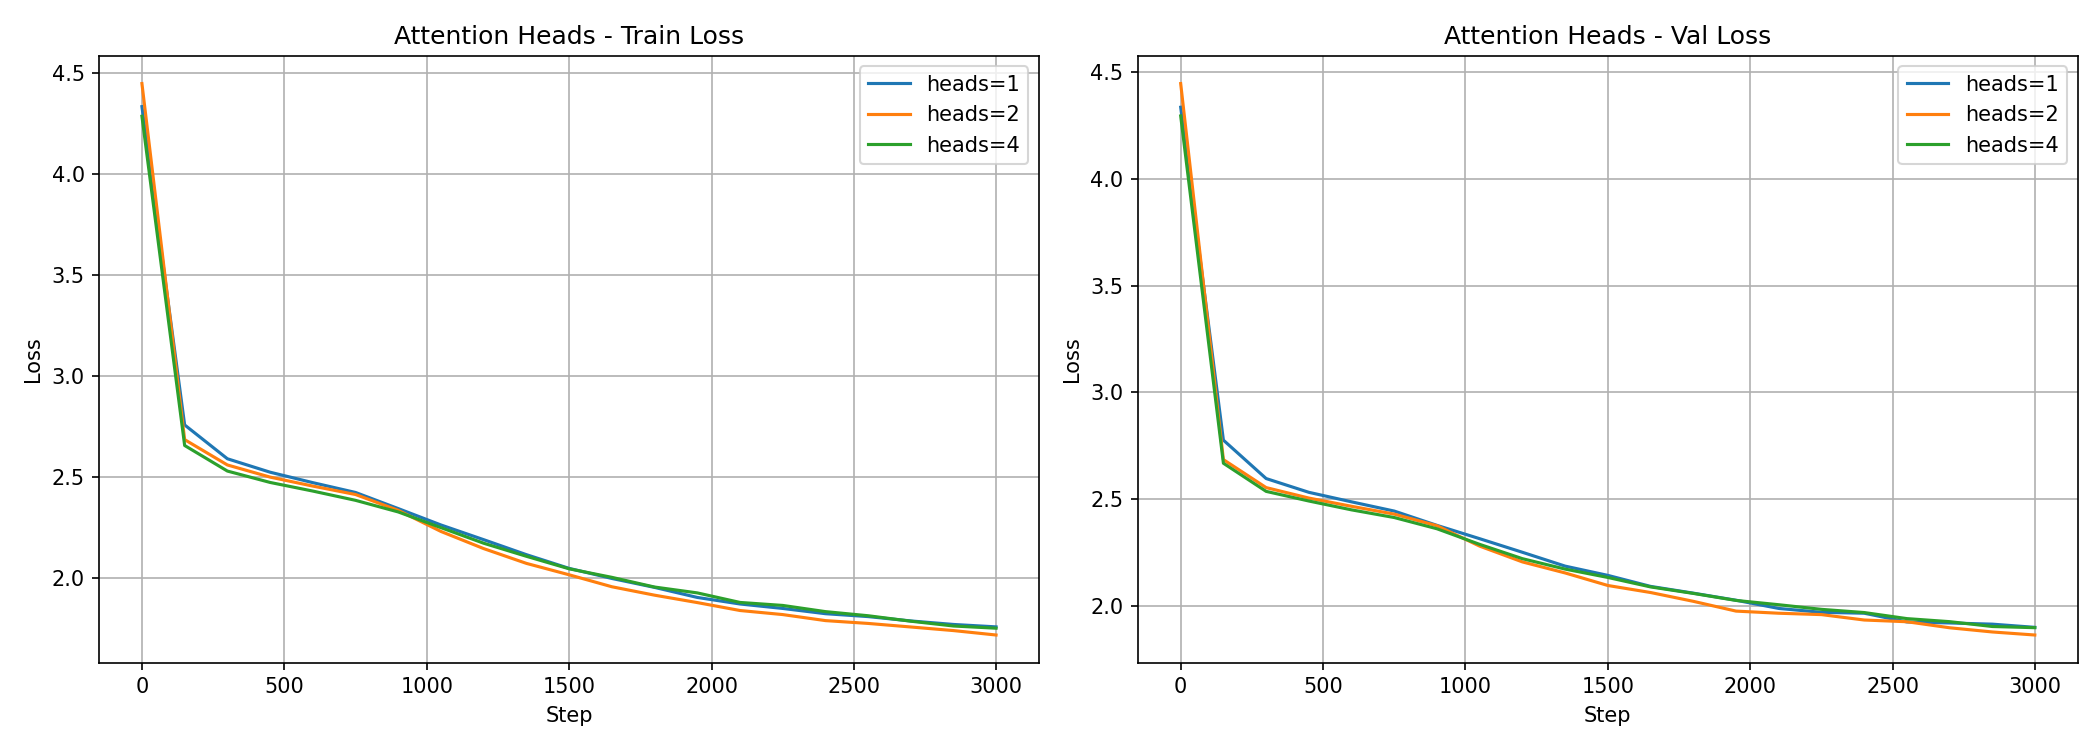
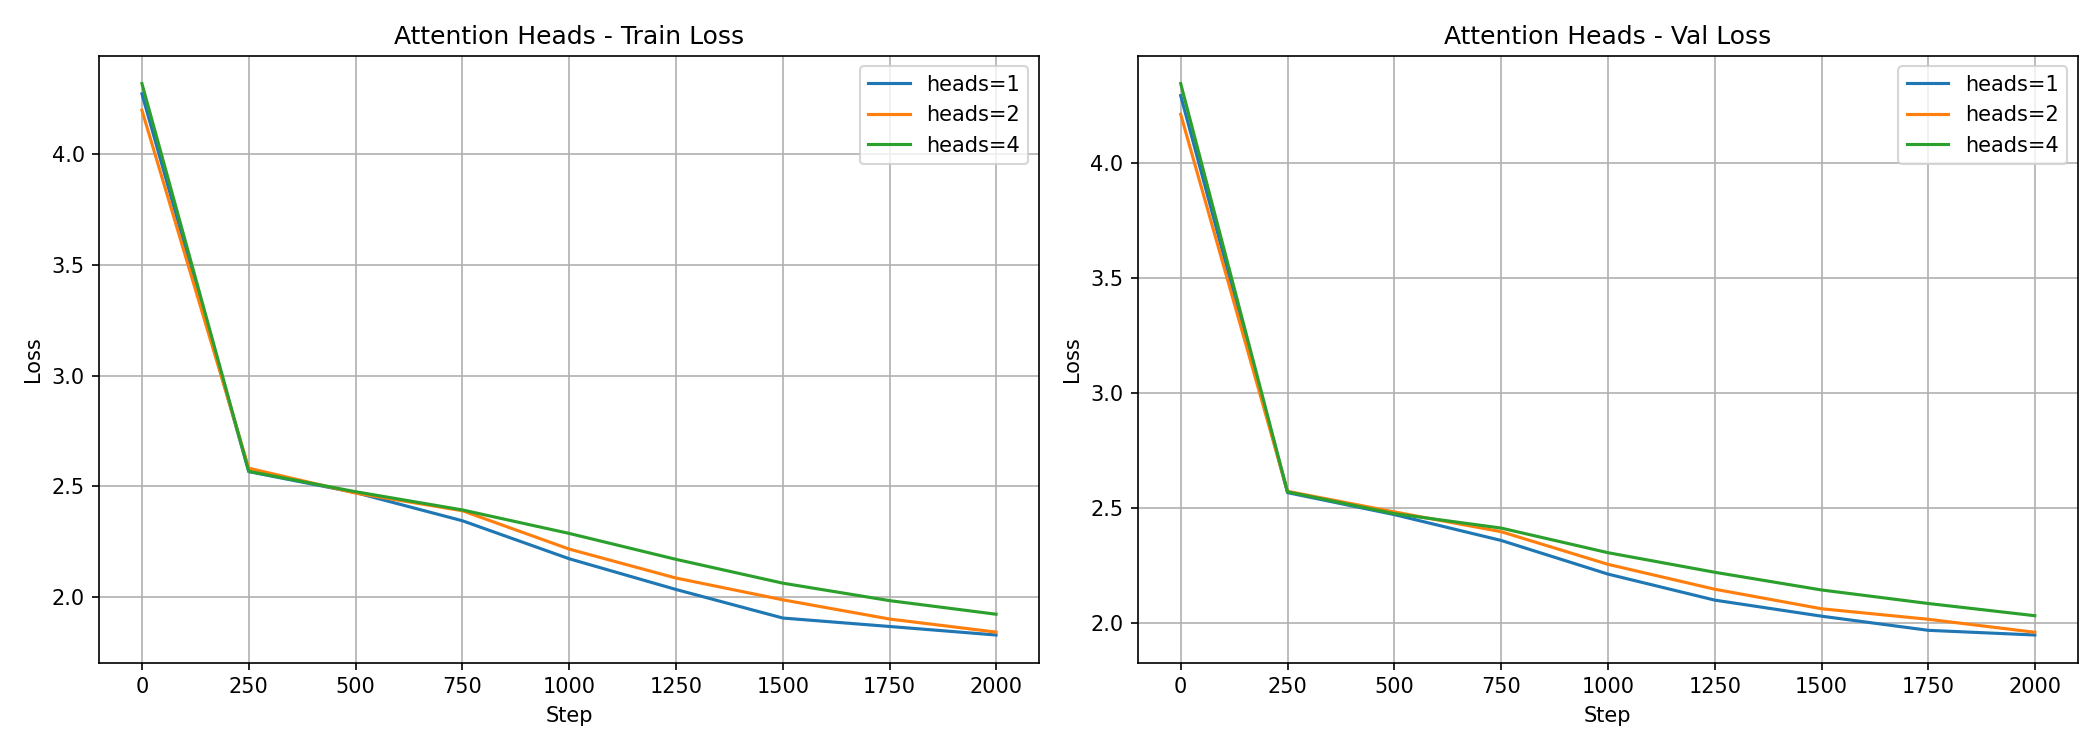
Restructured experiments

diff --git a/src/experiments.py b/src/experiments.py
@@ -16,12 +16,11 @@ from data import (
 )
 from model import DecoderOnlyTransformer
 
-NUM_STEPS = 3000
-EVAL_INTERVAL = 150
-EVAL_STEPS = 50
+NUM_STEPS = 2000
+EVAL_INTERVAL = 250
+EVAL_STEPS = 20
 LEARNING_RATE = 3e-4
 
-# baseline config
 BASELINE = {
     "d_model": 64,
     "num_heads": 4,
@@ -130,28 +129,6 @@ def plot_experiment(title, param_name, results, filename):
     plt.close()
 
 
-def run_experiment(name, param_key, values, vocab_size, train_data, val_data):
-
-    results = {}
-    for val in values:
-        config = BASELINE.copy()
-        config[param_key] = val
-        label = str(val)
-
-        print(f"\n{param_key}={val} | d_model={config['d_model']}, "
-              f"heads={config['num_heads']}, layers={config['num_layers']}, "
-              f"d_ff={config['d_ff']}")
-
-        results[label] = train_one_config(vocab_size, config, train_data, val_data)
-
-        r = results[label]
-        print(f"  -> {r['params']:,} params, "
-              f"val loss {r['final_val_loss']:.4f}, "
-              f"{r['time']:.1f}s")
-
-    return results
-
-
 def print_summary(all_results):
     print(f"\n{'Experiment':<25} {'Setting':<10} {'Params':>10} "
           f"{'Train Loss':>12} {'Val Loss':>12} {'Time (s)':>10}")
@@ -177,36 +154,43 @@ def main():
     print(f"Train tokens: {len(train_data):,}")
     print(f"Val tokens:   {len(val_data):,}")
 
-    all_results = {}
+    # train the baseline once and reuse it in both experiments
+    print("\nBaseline (d_model=64, heads=4, layers=2, d_ff=256)")
+    baseline_result = train_one_config(vocab_size, BASELINE, train_data, val_data)
+    r = baseline_result
+    print(f"  -> {r['params']:,} params, val loss {r['final_val_loss']:.4f}, {r['time']:.1f}s")
 
-    # experiment 1: vary attention heads
-    exp1 = run_experiment(
-        "Attention Heads", "num_heads", [1, 2, 4],
-        vocab_size, train_data, val_data,
-    )
-    plot_experiment("Attention Heads", "heads", exp1, "exp_heads.png")
-    all_results["Attention Heads"] = exp1
+    # experiment 1: vary attention heads (1, 2, and baseline=4)
+    heads_results = {}
+    for h in [1, 2]:
+        config = BASELINE.copy()
+        config["num_heads"] = h
+        print(f"\nnum_heads={h}")
+        heads_results[str(h)] = train_one_config(vocab_size, config, train_data, val_data)
+        r = heads_results[str(h)]
+        print(f"  -> {r['params']:,} params, val loss {r['final_val_loss']:.4f}, {r['time']:.1f}s")
+    heads_results["4"] = baseline_result
+    plot_experiment("Attention Heads", "heads", heads_results, "exp_heads.png")
 
-    # experiment 2: vary decoder layers
-    exp2 = run_experiment(
-        "Decoder Layers", "num_layers", [1, 2, 4],
-        vocab_size, train_data, val_data,
-    )
-    plot_experiment("Decoder Layers", "layers", exp2, "exp_layers.png")
-    all_results["Decoder Layers"] = exp2
+    # experiment 2: vary decoder layers (1, baseline=2, and 4)
+    layers_results = {}
+    for n in [1, 4]:
+        config = BASELINE.copy()
+        config["num_layers"] = n
+        print(f"\nnum_layers={n}")
+        layers_results[str(n)] = train_one_config(vocab_size, config, train_data, val_data)
+        r = layers_results[str(n)]
+        print(f"  -> {r['params']:,} params, val loss {r['final_val_loss']:.4f}, {r['time']:.1f}s")
+    layers_results["2"] = baseline_result
+    plot_experiment("Decoder Layers", "layers", layers_results, "exp_layers.png")
 
-    # experiment 3: vary embedding dimension
-    exp3 = run_experiment(
-        "Embedding Dim", "d_model", [32, 64, 128],
-        vocab_size, train_data, val_data,
-    )
-    plot_experiment("Embedding Dim", "d_model", exp3, "exp_dmodel.png")
-    all_results["Embedding Dim"] = exp3
-
+    all_results = {
+        "Attention Heads": heads_results,
+        "Decoder Layers": layers_results,
+    }
     print_summary(all_results)
 
     torch.save(all_results, os.path.join(RESULTS_DIR, "experiment_results.pt"))
-    print(f"\nResults saved to results/experiment_results.pt")
 
 
 if __name__ == "__main__":
